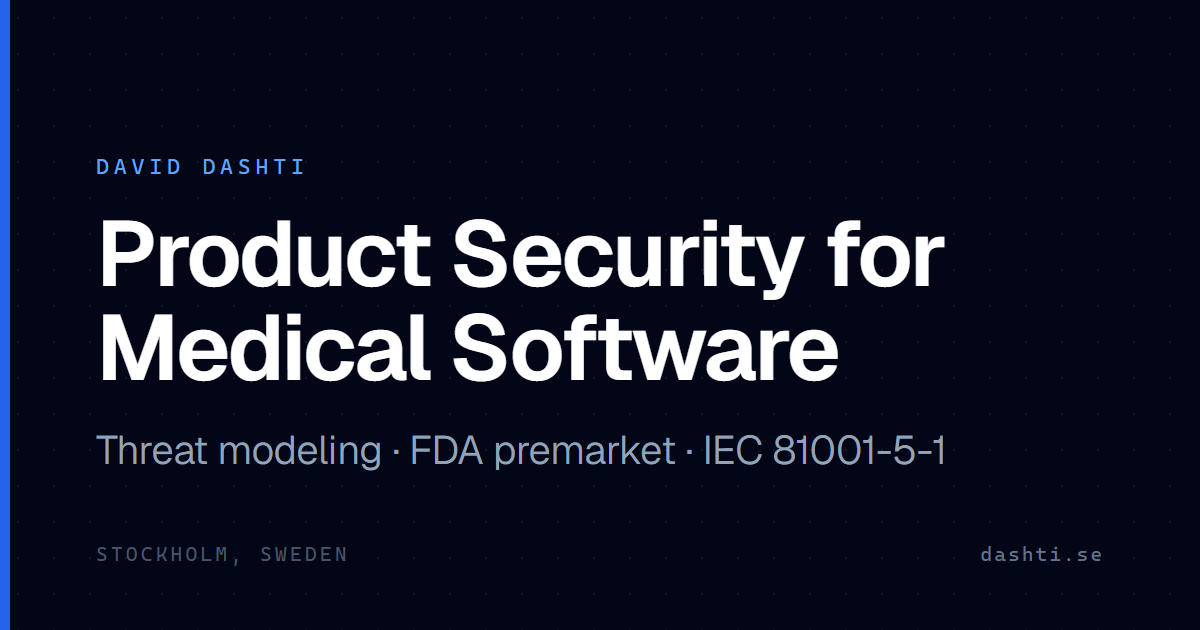
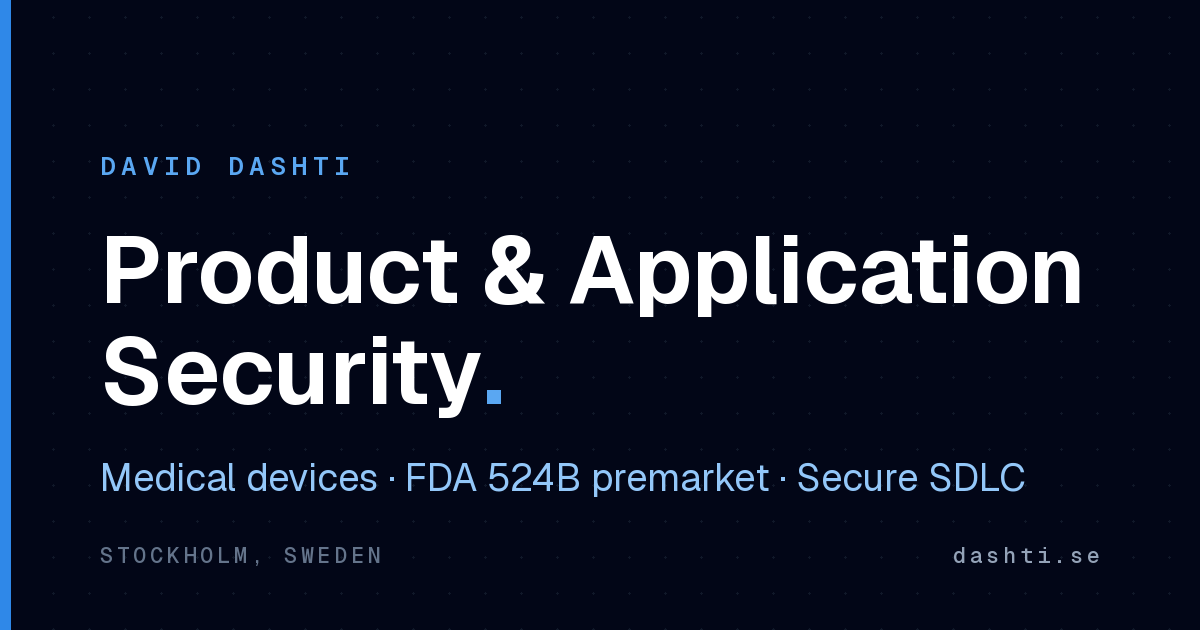
chore: regenerate share-card og:image for the S1 rebrand
The og:image still carried the pre-campaign identity on two axes: the
retired "Product Security for Medical Software" tagline (og:title moved to
"Product & Application Security | Medical Devices" in Campaign 2026-08 S1)
and the stock Tailwind blue accent bar (#2563eb) that predates the S7
clinical-azure rebrand (#2f88e8).

Regenerated at 1200x630 in the same design family (surface-0 ground, left
accent bar, dot grid, mono eyebrow/footer) using the site's own Geist /
Geist Mono variable fonts and current dark-mode palette: headline "Product
& Application Security." with the hero's primary-400 accent period, subline
"Medical devices · FDA 524B premarket · Secure SDLC" carrying the specialty
the headline no longer names, azure bar. og:image:alt updated to match
og:title. Same filename/URL — scrapers refresh on their own cadence
(LinkedIn Post Inspector can force it).

No test references the old alt text; image is a static asset (runtime
image-cache, not precached).

diff --git a/frontend/index.html b/frontend/index.html
@@ -30,7 +30,7 @@
     <meta property="og:type" content="website" />
     <meta property="og:url" content="https://dashti.se" />
     <meta property="og:image" content="https://dashti.se/images/share-card.png" />
-    <meta property="og:image:alt" content="David Dashti — Product Security for Medical Software" />
+    <meta property="og:image:alt" content="David Dashti — Product &amp; Application Security | Medical Devices" />
     <meta property="og:image:width" content="1200" />
     <meta property="og:image:height" content="630" />
 
